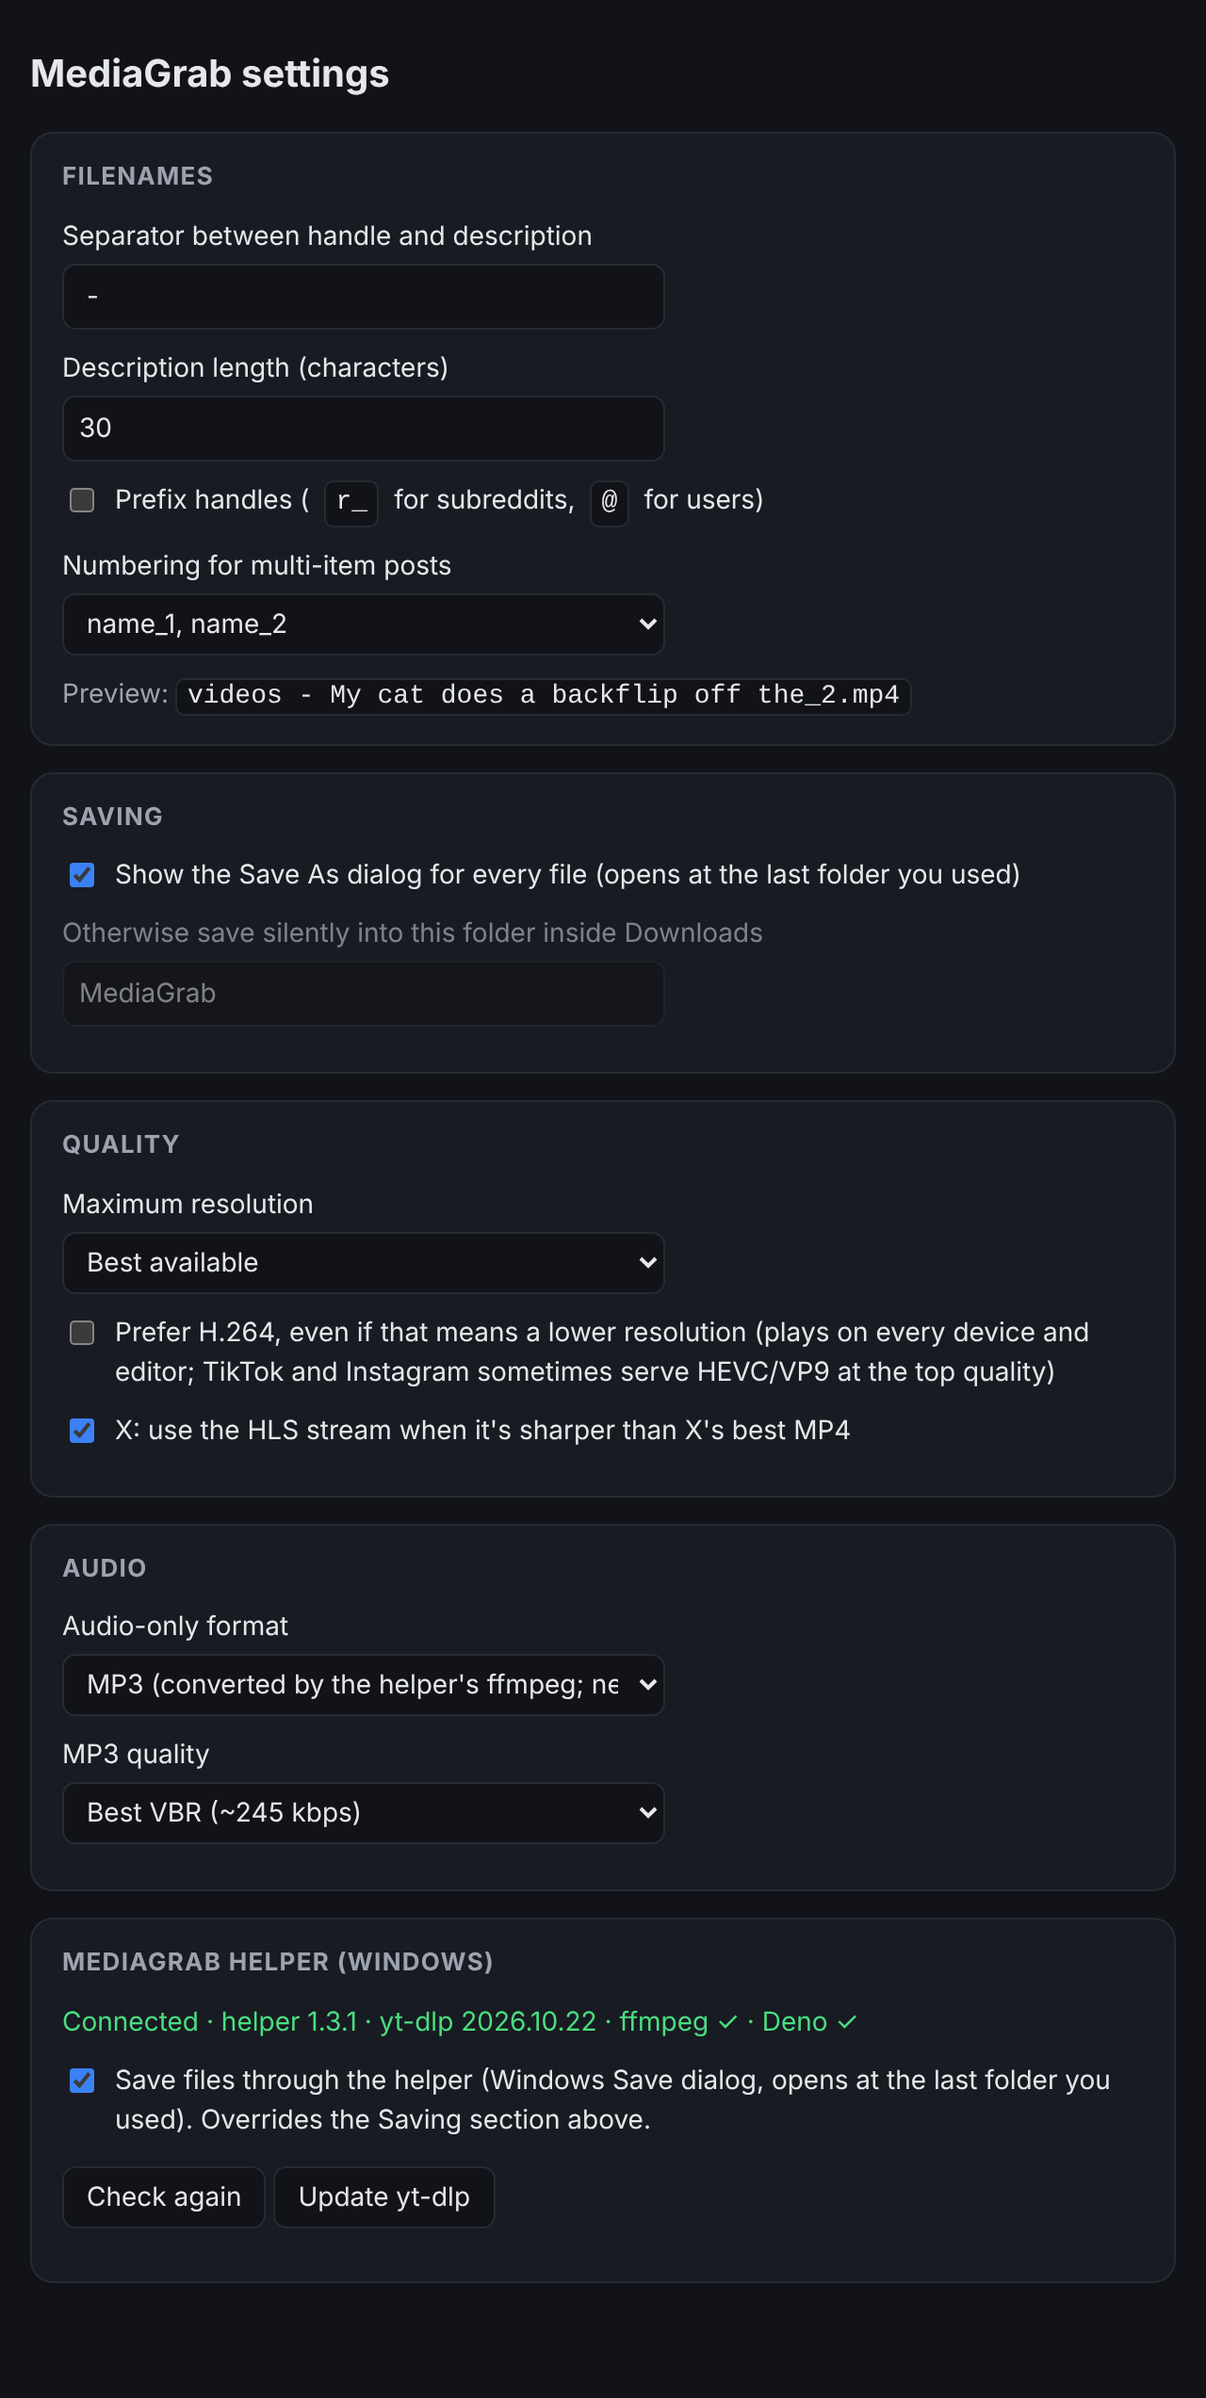
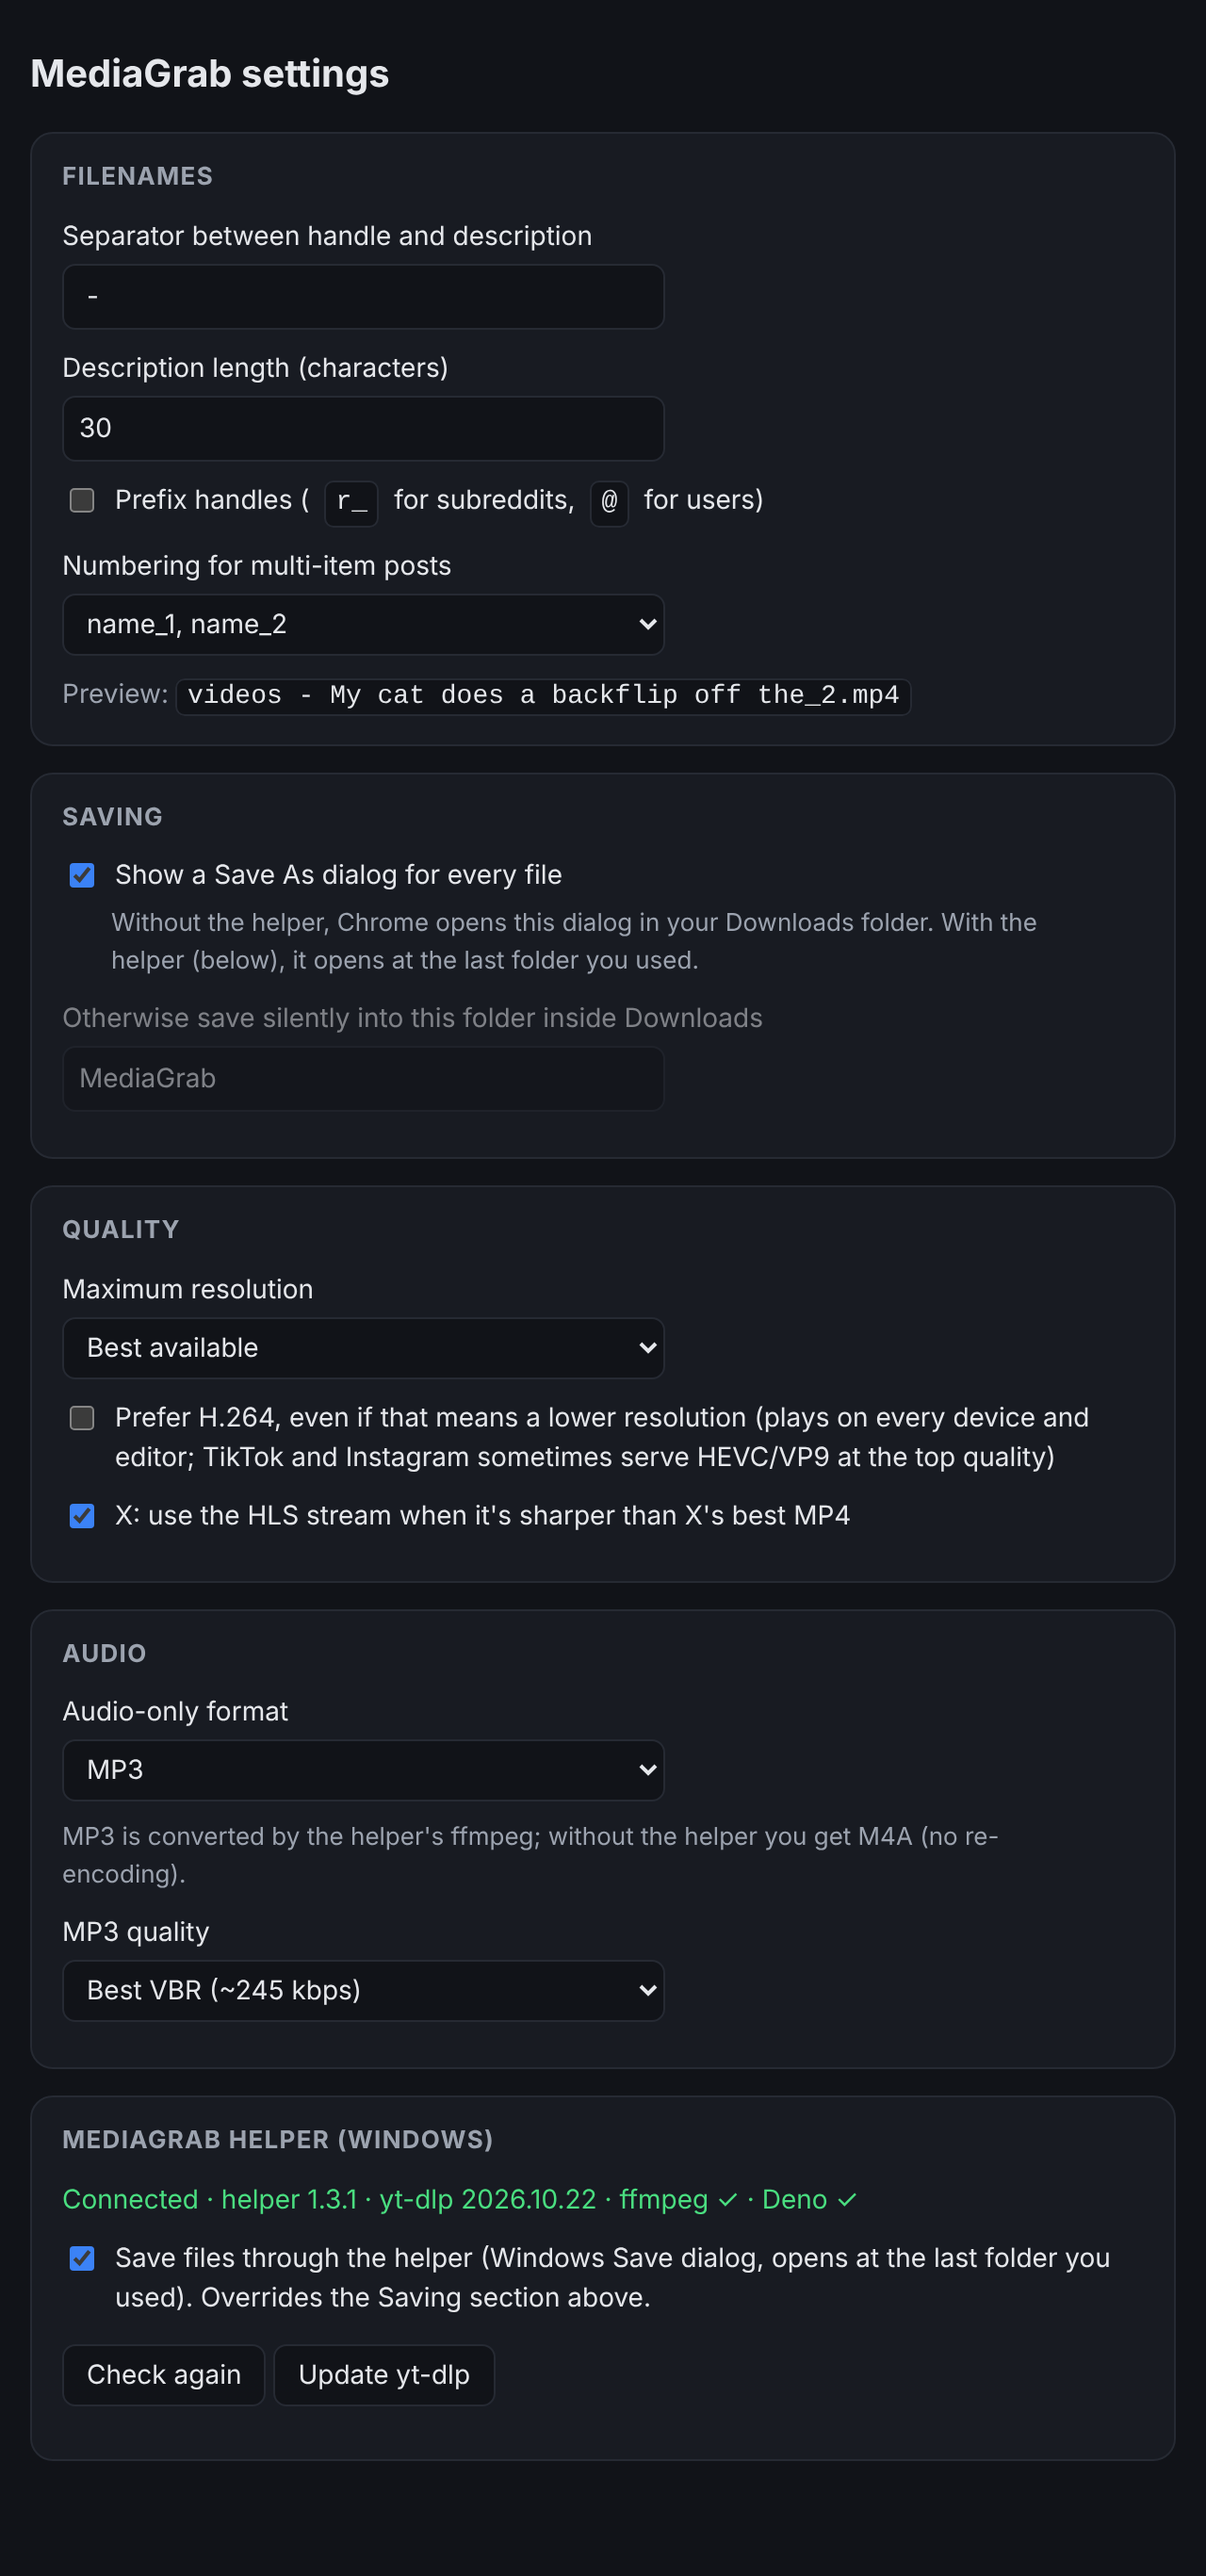
Settings: clarify Save As behaviour and fix cut-off MP3 option
- Saving: Chrome's own Save As dialog always opens in Downloads; only the
  helper reopens the last folder used. Say so in a note instead of claiming
  the dialog always remembers the folder.
- Audio: shorten the format options ("MP3", "M4A (original audio)") and
  move the explanation into a note so the dropdown text isn't truncated.
- Refresh the settings screenshot.

Claude-Session: https://claude.ai/code/session_011WKAAgvAQJpjt1ycjrW9mj

diff --git a/options/options.html b/options/options.html
@@ -30,7 +30,8 @@
 
     <section>
       <h2>Saving</h2>
-      <label class="check"><input id="saveAs" type="checkbox"> Show the Save As dialog for every file (opens at the last folder you used)</label>
+      <label class="check"><input id="saveAs" type="checkbox"> Show a Save As dialog for every file</label>
+      <p class="note">Without the helper, Chrome opens this dialog in your Downloads folder. With the helper (below), it opens at the last folder you used.</p>
       <label id="folderRow">Otherwise save silently into this folder inside Downloads
         <input id="folder" type="text" placeholder="MediaGrab (empty = Downloads itself)">
       </label>
@@ -56,10 +57,11 @@
       <h2>Audio</h2>
       <label>Audio-only format
         <select id="audioFormat">
-          <option value="mp3">MP3 (converted by the helper's ffmpeg; needs the helper)</option>
-          <option value="m4a">M4A (original audio, no re-encoding, works without the helper)</option>
+          <option value="mp3">MP3</option>
+          <option value="m4a">M4A (original audio)</option>
         </select>
       </label>
+      <p class="note">MP3 is converted by the helper's ffmpeg; without the helper you get M4A (no re-encoding).</p>
       <label>MP3 quality
         <select id="mp3Quality">
           <option value="0">Best VBR (~245 kbps)</option>

diff --git a/options/options.css b/options/options.css
@@ -53,6 +53,8 @@ label > input[type="text"], label > input[type="number"], label > select {
 label.check { display: flex; gap: 8px; align-items: flex-start; }
 label.check input { margin-top: 4px; accent-color: var(--accent); }
 .preview { color: var(--muted); margin: 8px 0 0; overflow-wrap: anywhere; }
+.note { color: var(--muted); font-size: 13px; margin: -4px 0 10px 26px; max-width: 520px; }
+label:not(.check) + .note { margin-left: 0; margin-top: 4px; }
 code { background: var(--bg); border: 1px solid var(--line); border-radius: 5px; padding: 1px 5px; color: var(--fg); }
 #folderRow[aria-disabled="true"] { opacity: .5; }
 button {
